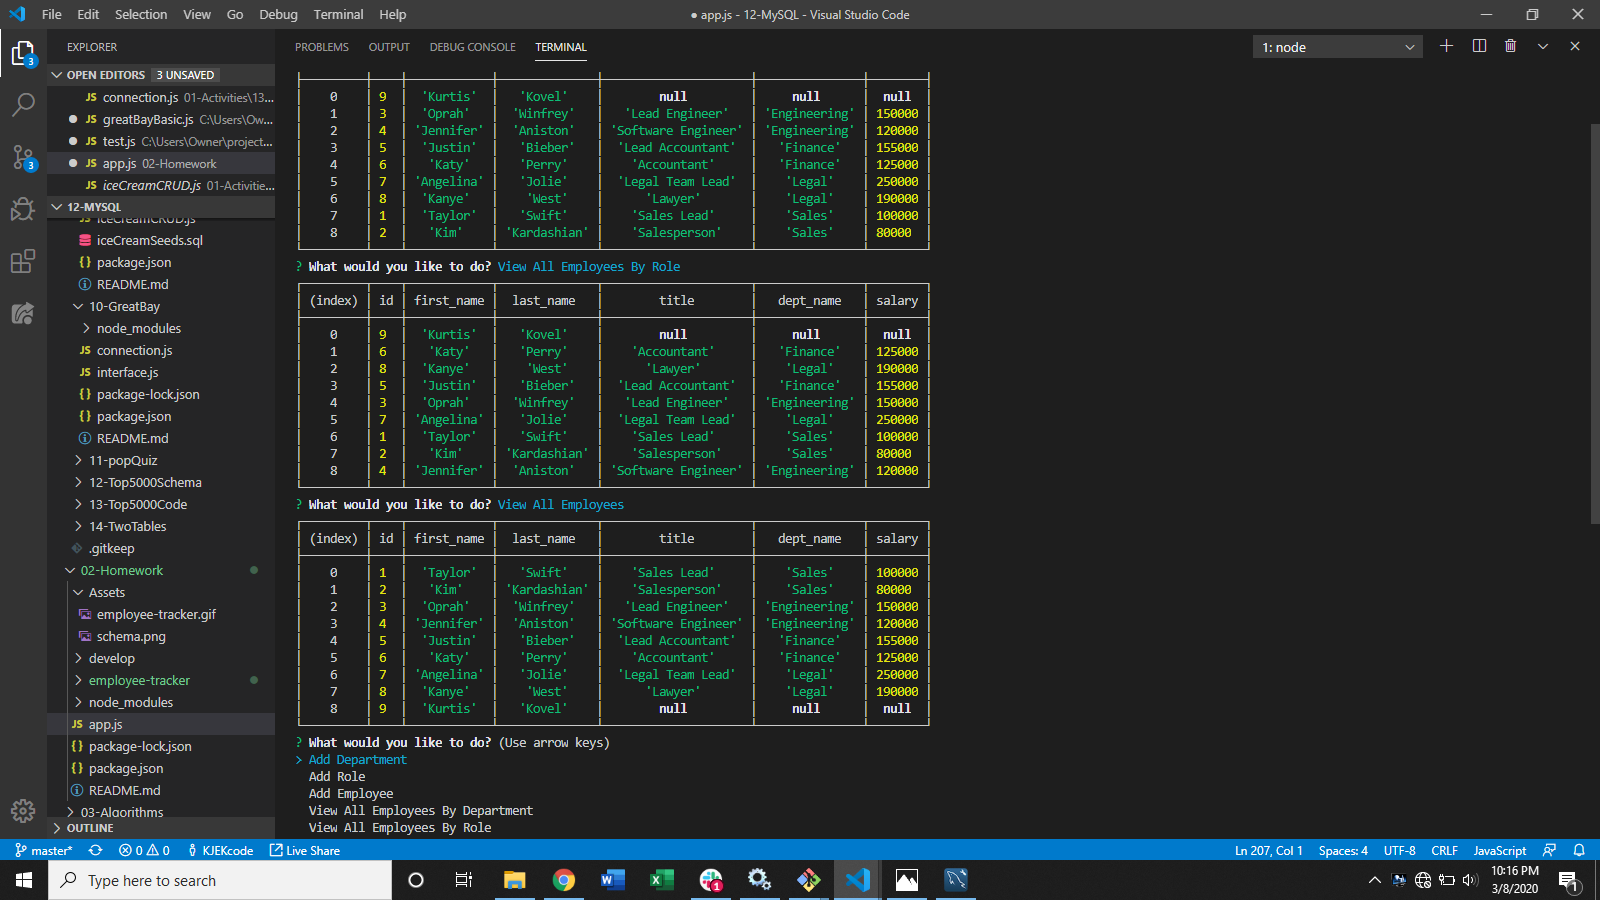
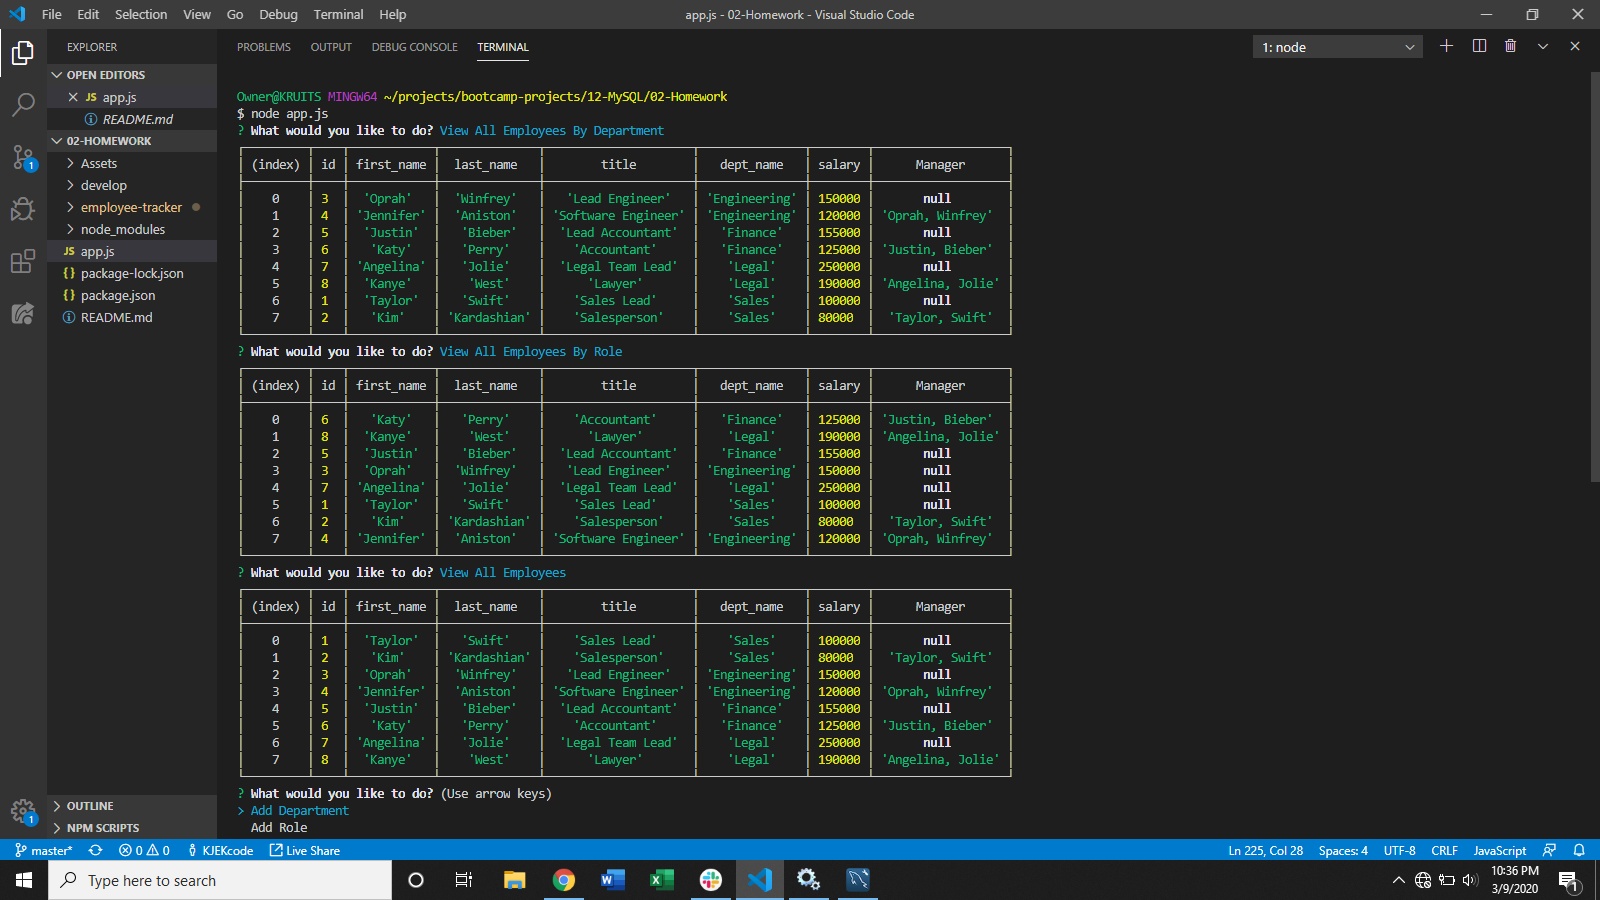
Updated readme screenshots && app.js

diff --git a/app.js b/app.js
@@ -31,7 +31,8 @@ function start() {
             "View All Employees By Department",
             "View All Employees By Role",
             "View All Employees",
-            "Update Employee Role"
+            "Update Employee Role",
+            "Exit"
         ]
       })
       .then(function(answer) {
@@ -62,6 +63,10 @@ function start() {
 
             case "Update Employee Role": 
                 updateRole();
+                break;
+
+            case "Exit": 
+                exit();
                 break;
         
             default:
@@ -112,8 +117,8 @@ function addRole() {
             },
             {
               name: "department",
-              type: "rawlist",
-              choices: results.map(dept => dept.dept_name),
+              type: "list",
+              choices: results.map(dept => ({name: dept.dept_name, value: dept.id})),
               message: "What department does this role go under?"
             }
           ])
@@ -123,13 +128,7 @@ function addRole() {
                 {
                     title: answer.title,
                     salary: answer.salary,
-                    department_id: function() {
-                        for (let i = 0; i < results.length; i++) {
-                            if (answer.department === results.dept_name) {
-                                answer.department = results[i].id;
-                            }
-                        }
-                    }
+                    department_id: answer.department
                 },
                 function(err, res) {
                     if (err) throw err;
@@ -143,69 +142,67 @@ function addRole() {
 };
 
 function addEmployee() {
-    connection.query("SELECT * FROM role", function(err, results) {
-        if (err) throw err;
-        // once you have the items, prompt the user for which they'd like to bid on
-        inquirer
-          .prompt([
-            {
-                name: "firstName",
-                type: "input",
-                message: "What is the employees first name?"
-            },
-            {
-                name: "lastName",
-                type: "input",
-                message: "What is the employees last name?"
-            },
-            {
-              name: "role",
-              type: "rawlist",
-              choices: results.map(role => role.title),
-              message: "What is this employees role?"
-            },
-            {
-                name: "manager",
-                type: "input",
-                message: "Enter manager Id"
-            }
-          ])
-          .then(function(answer) {
-            var query = connection.query(
-                "INSERT INTO employee SET ?",
+    connection.query("SELECT id, first_name, last_name FROM employee", function(err, empResults) {
+        connection.query("SELECT id, title FROM role", function(err, roleResults) {
+            if (err) throw err;
+
+            inquirer
+            .prompt([
                 {
-                    first_name: answer.firstName,
-                    last_name: answer.lastName,
-                    manager_id: answer.manager,
-                    role_id: function() {
-                        for (let i = 0; i < results.length; i++) {
-                            if (answer.role === results.title) {
-                                answer.role = results[i].id;
-                            }
-                        }
-                    }
+                    name: "firstName",
+                    type: "input",
+                    message: "What is the employees first name?"
                 },
-                function(err, res) {
-                    if (err) throw err;
-                    console.log(res.affectedRows + " Employee Added!\n");
-                    // Call updateProduct AFTER the INSERT completes
-                    start();
+                {
+                    name: "lastName",
+                    type: "input",
+                    message: "What is the employees last name?"
+                },
+                {
+                  name: "role",
+                  type: "list",
+                  choices: roleResults.map(roleItem => ({name: roleItem.title, value: roleItem.id})),
+                  message: "What is this employees role?"
+                },
+                {
+                    name: "manager",
+                    type: "list",
+                    choices: empResults.map(managerItem => ({name: `${managerItem.first_name} ${managerItem.last_name}`, value: managerItem.id})),
+                    message: "Who is this employees manager?"
                 }
-            )
-          });
-      });
+            ])
+            .then(function(answer) {
+                var query = connection.query(
+                    "INSERT INTO employee SET ?",
+                    {
+                        first_name: answer.firstName,
+                        last_name: answer.lastName,
+                        role_id: answer.role,
+                        manager_id: answer.manager,
+                    },
+                    function(err, res) {
+                        if (err) throw err;
+                        console.log(res.affectedRows + " Employee Added!\n");
+                        // Call updateProduct AFTER the INSERT completes
+                        start();
+                    }
+                )
+            });
+        });
+    });
 };
 
 function viewDepartment() {
-    connection.query("SELECT employee.id, employee.first_name, employee.last_name, role.title, department.dept_name, role.salary FROM employee LEFT JOIN role ON employee.role_id=role.id LEFT JOIN department ON role.department_id=department.id ORDER BY dept_name", function(err, results) {
+    connection.query("SELECT employee.id, employee.first_name, employee.last_name, role.title, department.dept_name, role.salary, CONCAT(m.first_name, ', ', m.last_name) AS Manager FROM employee LEFT JOIN role ON employee.role_id=role.id LEFT JOIN department ON role.department_id=department.id LEFT JOIN employee m ON employee.manager_id=m.id ORDER BY dept_name", function(err, results) {
         if (err) throw err;
         // Log all results of the SELECT statement
         console.table(results);
         start();
     })
 };
+
 function viewRole() {
-    connection.query("SELECT employee.id, employee.first_name, employee.last_name, role.title, department.dept_name, role.salary FROM employee LEFT JOIN role ON employee.role_id=role.id LEFT JOIN department ON role.department_id=department.id ORDER BY role.title", function(err, results) {
+    connection.query("SELECT employee.id, employee.first_name, employee.last_name, role.title, department.dept_name, role.salary, CONCAT(m.first_name, ', ', m.last_name) AS Manager FROM employee LEFT JOIN role ON employee.role_id=role.id LEFT JOIN department ON role.department_id=department.id LEFT JOIN employee m ON employee.manager_id=m.id ORDER BY role.title", function(err, results) {
         if (err) throw err;
         // Log all results of the SELECT statement
         console.table(results);
@@ -214,7 +211,7 @@ function viewRole() {
 };
 
 function viewEmployee() {
-    connection.query("SELECT employee.id, employee.first_name, employee.last_name, role.title, department.dept_name, role.salary FROM employee LEFT JOIN role ON employee.role_id=role.id LEFT JOIN department ON role.department_id=department.id", function(err, results) {
+    connection.query("SELECT employee.id, employee.first_name, employee.last_name, role.title, department.dept_name, role.salary, CONCAT(m.first_name, ', ', m.last_name) AS Manager FROM employee LEFT JOIN role ON employee.role_id=role.id LEFT JOIN department ON role.department_id=department.id LEFT JOIN employee m ON employee.manager_id=m.id", function(err, results) {
         if (err) throw err;
         // Log all results of the SELECT statement
         console.table(results);
@@ -223,22 +220,22 @@ function viewEmployee() {
 };
 
 function updateRole() {
-    connection.query("SELECT * FROM employee, role", function(err, results) {
+    connection.query("SELECT id, first_name, last_name FROM employee", function(err, empResults) {
+    connection.query("SELECT id, title FROM role", function(err, roleResults) {
         if (err) throw err;
-        // once you have the items, prompt the user for which they'd like to bid on
         inquirer
           .prompt([
             {
               name: "employeeName",
-              type: "rawlist",
-              choices: results.map(employee => `${employee.first_name}`),
+              type: "list",
+              choices: empResults.map(employee => ({name: `${employee.first_name} ${employee.last_name}`, value: employee.id})),
               message: "Which employee would you like to update?"
             },
             {
                 name: "role",
-                type: "rawlist",
-                choices: results.map(role => role.title),
-                message: "Select new role?"
+                type: "list",
+                choices: roleResults.map(role => ({name: role.title, value: role.id})),
+                message: "Select the new role"
               },
           ])
           .then(function(answer) {
@@ -246,17 +243,12 @@ function updateRole() {
                 "UPDATE employee SET ? WHERE ?",
                 [
                     {
-                        role_id: function() {
-                            for (let i = 0; i < results.length; i++) {
-                                if (answer.role === results.title) {
-                                    answer.role = results[i].id;
-                                }
-                            }
-                        }
+                        role_id: answer.role
                     },
                     {
-                        first_name: answer.employeeName
+                        id: answer.employeeName
                     }
+                    
                 ],
                 function(err, res) {
                     if (err) throw err;
@@ -266,5 +258,11 @@ function updateRole() {
                 }
             )
           });
+        });
       });
+};
+
+function exit() {
+    console.log("Logging Off...");
+    connection.end();
 };

diff --git a/README.md b/README.md
@@ -3,3 +3,4 @@ This app keeps track of employees based on the managers input
 
 
 ![Project Screenshot](./assets/screenshots/screenshot.png)
+![Project Screenshot 2](./assets/screenshots/screenshot2.png)
